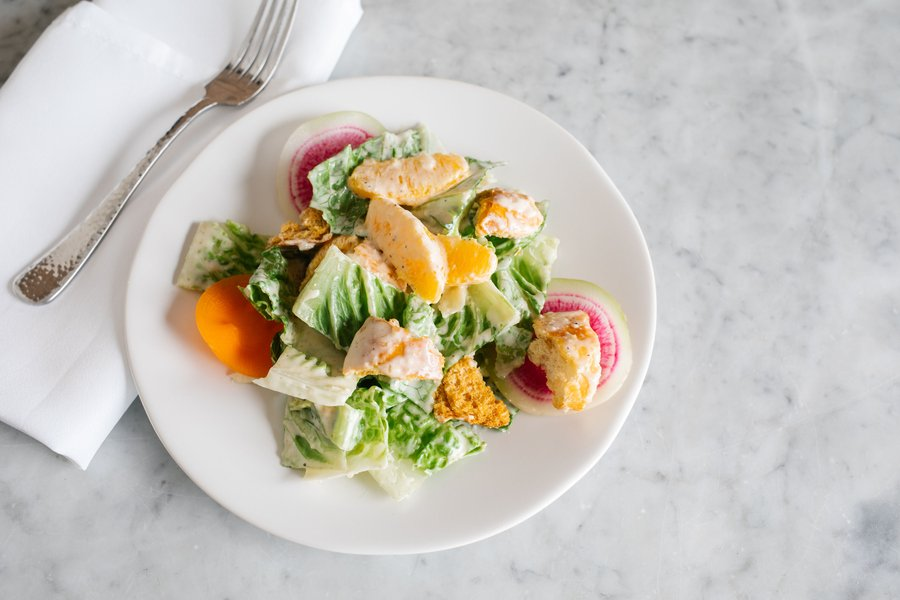
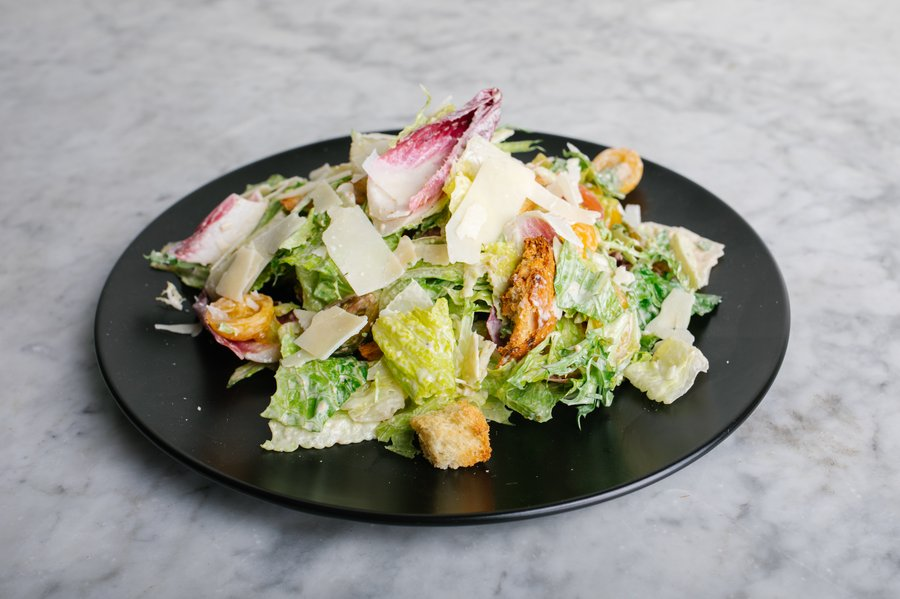
holiday pics

diff --git a/seo-to-csv-converter.html b/seo-to-csv-converter.html
@@ -503,7 +503,7 @@ const MENU_PHOTOS = [
   {slug:"okey-dokey-artichokey",name:"Okey Dokey Artichokey",aliases:["Okey Dokey Artichokey","Spinach Artichoke Dip","Artichoke Dip"]},
   {slug:"charcuterie",name:"Charcuterie",aliases:["Charcuterie","Charcuterie Board","Charcuterie Display","Grazing"]},
   {slug:"cheese-display",name:"Cheese Display",aliases:["Cheese Display","Cheese Board","Artisanal Cheese"]},
-  {slug:"black-bleu-meatball",name:"Black & Bleu Meatball",aliases:["Black & Bleu Meatball","Black and Bleu Meatball","Black Bleu Meatball"]},
+  {slug:"black-bleu-meatball",name:"Black & Bleu Meatball",aliases:["Black & Bleu Meatball","Black and Bleu Meatball","Black Bleu Meatball","Bacon Wrapped Meatballs","Bacon Wrapped Meatball","Bacon Meatball"]},
   {slug:"mini-lobster-roll",name:"Mini Lobster Roll",aliases:["Mini Lobster Roll","Lobster Roll"]},
   {slug:"mushroom-taleggio-arancini",name:"Mushroom & Taleggio Arancini",aliases:["Mushroom & Taleggio Arancini","Mushroom Arancini","Arancini"]},
   {slug:"seasonal-bruschetta-fall-winter",name:"Seasonal Bruschetta (Fall/Winter)",aliases:["Fall Winter Bruschetta"]},
@@ -523,7 +523,7 @@ const MENU_PHOTOS = [
   {slug:"frittata",name:"Frittata",aliases:["Frittata"]},
   {slug:"fresh-fruit-display",name:"Fresh Fruit Display",aliases:["Fresh Fruit Display","Fruit Display","Seasonal Fruit"]},
   {slug:"mixed-berry-parfait",name:"Mixed Berry Parfait",aliases:["Parfait","Yogurt Parfait","Mixed Berry Parfait","Parfaits"]},
-  {slug:"applewood-smoked-bacon",name:"Applewood Smoked Bacon",aliases:["Applewood Smoked Bacon","Bacon"]},
+  {slug:"applewood-smoked-bacon",name:"Applewood Smoked Bacon",aliases:["Applewood Smoked Bacon","Applewood Bacon","Smoked Bacon Strips"]},
   {slug:"grilled-ham",name:"Grilled Ham",aliases:["Grilled Ham"]},
   {slug:"avocado-toast",name:"Avocado Toast",aliases:["Avocado Toast","Avo Toast","Avocado Spread"]},
   {slug:"biscuits-jam",name:"Biscuits & Jam",aliases:["Biscuits & Jam","Biscuits and Jam","Biscuits"]},
@@ -537,15 +537,40 @@ const MENU_PHOTOS = [
     "Roasted Couscous","Couscous","Pearl Couscous","Israeli Couscous",
     "Fire Roasted Vegetables","Roasted Vegetables","Roasted Seasonal Vegetables","Char Grilled Vegetables","Grilled Vegetables","Seasonal Vegetables","Roasted Root Vegetables",
     "Cilantro Rice","Cilantro Lime Rice","Rice Pilaf","Wild Rice","Yellow Rice","Coconut Rice","Jasmine Rice","Basmati Rice","Saffron Rice",
-    "Basted Potatoes","Roasted Potatoes","Herb Roasted Potatoes","Smoky Fingerling Potatoes","Fingerling Potatoes","Fondant Potatoes","Smashed Potatoes","Potato Puree","Duchess Potatoes",
+    "Fondant Potatoes","Smashed Potatoes","Potato Puree","Duchess Potatoes",
     "Chive Mash","Garlic Mashed Potatoes","Yukon Mashed Potatoes",
     "Charred Broccoli","Roasted Broccoli","Broccolini","Charred Broccolini",
-    "Green Beans","Haricot Verts","French Green Beans","Grilled Asparagus","Roasted Asparagus",
-    "Brussels Sprouts","Charred Brussels Sprouts","Glazed Carrots","Honey Glazed Carrots","Roasted Carrots",
+    "Grilled Asparagus","Roasted Asparagus",
+    "Glazed Carrots","Honey Glazed Carrots","Roasted Carrots",
     "Farro Pilaf","Quinoa Pilaf","Grain Pilaf","Creamed Spinach","Grilled Corn","Street Corn","Elote"
   ]},
+  {slug:"charred-brussels",name:"Charred Brussels Sprouts",aliases:["Charred Brussels Sprouts","Roasted Brussels Sprouts","Brussels Sprouts","Brussels"]},
+  {slug:"roasted-baby-potatoes",name:"Roasted Baby Potatoes",aliases:["Petite Rainbow Potatoes","Rainbow Potatoes","Roasted Baby Potatoes","Basted Potatoes","Roasted Potatoes","Herb Roasted Potatoes","Smoky Fingerling Potatoes","Fingerling Potatoes"]},
+  {slug:"green-beans",name:"Green Beans",aliases:["Classic Green Beans","Green Beans","Haricot Verts","French Green Beans"]},
+  {slug:"country-dressing",name:"Country Bread Dressing",aliases:["Toasted Country Bread Dressing","Country Bread Dressing","Bread Dressing","Cornbread Dressing","Herb Dressing","Stuffing"]},
+  {slug:"roasted-yams",name:"Roasted Yams",aliases:["Roasted Yams","Candied Yams","Yams","Marshmallow Sweet Potato","Sweet Potato Casserole"]},
+  {slug:"turkey-breast",name:"Turkey Breast",aliases:["Turkey Breast","Bone-In Turkey Breast","Rosemary & Thyme Turkey","Roasted Turkey","Roast Turkey Breast","Sliced Turkey","Turkey"]},
+  {slug:"baked-ham",name:"Sliced Baked Ham",aliases:["Sliced Slow Baked Ham","Slow Baked Ham","Baked Ham","Holiday Ham","Glazed Ham","Hickory Smoked Ham","Sliced Ham"]},
+  {slug:"holiday-buffet",name:"Holiday Buffet",aliases:["Holiday Buffet","Holiday Dinner Buffet","Holiday Spread","Thanksgiving Buffet"]},
+  {slug:"raspberry-cheesecake",name:"Raspberry Swirl Cheesecake",aliases:["White Chocolate Raspberry Swirl Cheesecake","Raspberry Swirl Cheesecake","White Chocolate Raspberry Cheesecake","Raspberry Cheesecake"]},
+  {slug:"pumpkin-cheesecake",name:"Pumpkin Cheesecake",aliases:["Pumpkin Cheesecake Bites","Pumpkin Cheesecake Bite","Pumpkin Cheesecake"]},
+  {slug:"pecan-tart",name:"Chocolate Pecan Tart",aliases:["Chocolate Pecan Tart","Pecan Tart","Maple Pecan Tart"]},
+  {slug:"peppermint-cookies",name:"Peppermint Chocolate Cookies",aliases:["Peppermint and Chocolate Chunk Cookies","Peppermint Chocolate Cookies","Peppermint Crinkle Cookies","Peppermint Cookies","Chocolate Peppermint Cookies","Crinkle Cookies"]},
+  {slug:"apple-dessert-shooter",name:"Apple Spiced Shooter",aliases:["Apple Dessert Shooter","Apple Spiced Torte Bite","Apple Spiced Shooter","Apple Spice Shooter","Caramel Apple Shooter","Apple Torte Bite"]},
+  {slug:"mistletoe-margarita",name:"Mistletoe Margarita",aliases:["Mistletoe Margarita","Cranberry Margarita","Holiday Margarita","Winter Margarita","White Cranberry Margarita"]},
+  {slug:"pork-loin",name:"Pork Loin",aliases:["Pork Loin","Roasted Pork Loin","Herb Roasted Pork Loin","Sliced Pork Loin","Pork Tenderloin"]},
+  {slug:"apple-pie",name:"Apple Pie",aliases:["Classic Apple Pie","Apple Pie"]},
+  {slug:"pumpkin-chiffon-pie",name:"Pumpkin Chiffon Pie",aliases:["Pumpkin Chiffon Pie","Pumpkin Chiffon","Individual Sweet Pumpkin Pie","Sweet Pumpkin Pie","Pumpkin Pie"]},
+  {slug:"turtle-cheesecake",name:"Turtle Cheesecake",aliases:["Turtle Cheesecake","Caramel Pecan Cheesecake"]},
+  {slug:"pumpkin-pie-martini",name:"Pumpkin Pie Martini",aliases:["Pumpkin Pie Martini","Pumpkin Martini"]},
+  {slug:"apple-cider-bourbon",name:"Apple Cider Bourbon",aliases:["Apple Cider Bourbon","Apple Cider Cocktail","Cider Bourbon"]},
+  {slug:"caprese-flatbread",name:"Caprese Flatbread",aliases:["Caprese Flatbread","Caprese Flat Bread","Tomato Mozzarella Flatbread"]},
+  {slug:"ginger-cookie-sandwich",name:"Ginger Cookie Sandwich",aliases:["Ginger Cookie Sandwich","Gingersnap Cookies","Gingersnap Cookie","Ginger Cookies","Gingersnap"]},
+  {slug:"apple-guava-hand-pie",name:"Apple Guava Hand Pie",aliases:["Mini Apple Guava Hand Pie","Apple Guava Hand Pie","Guava Hand Pie","Hand Pie"]},
+  {slug:"maple-pecan-pie",name:"Maple Bourbon Pecan Pie",aliases:["Maple Bourbon Pecan Pie","Maple Pecan Pie","Bourbon Pecan Pie","Pecan Pie"]},
+  {slug:"ginger-ganache-brownie",name:"Ginger Swirl Ganache Brownie",aliases:["Ginger Swirl Ganache Brownie","Ginger Ganache Brownie","Ganache Brownie","Ginger Brownie"]},
   {slug:"chive-mashed-potatoes",name:"Chive Mashed Potatoes",aliases:["Chive Mashed","Mashed Potatoes","Whipped Potato"]},
-  {slug:"florida-inspired-caesar-salad",name:"Florida Inspired Caesar Salad",aliases:["Florida Inspired Caesar","Florida Caesar","Caesar Salad","Crisper Green"]},
+  {slug:"florida-inspired-caesar-salad",name:"Florida Inspired Caesar Salad",aliases:["Florida Inspired Caesar","Florida Caesar","Classic Caesar","Chicory Salad","Caesar Salad","Caesar","Crisper Green"]},
   {slug:"salad-buffet",name:"Salad Buffet",aliases:[],fallback:"salad"},
   {slug:"chilled-watermelon",name:"Chilled Watermelon",aliases:["Chilled Watermelon","Tomato Watermelon","Watermelon Salad"]},
   {slug:"winter-greens",name:"Winter Greens",aliases:["Winter Greens Salad","Winter Greens"]},
@@ -564,14 +589,14 @@ const MENU_PHOTOS = [
   {slug:"champagne-chicken",name:"Pan Roasted Frenched Chicken Champagne",aliases:["Pan Roasted Frenched Chicken Champagne","Frenched Chicken Champagne","Champagne Chicken"]},
   {slug:"rice-crispy-station",name:"Rice Crispy Bar Station",aliases:["Rice Crispy Bar Station","Rice Crispy Station","Rice Crispy Treat"]},
   {slug:"smores-station",name:"S'mores Station",aliases:["S'mores Station","Smores Station","S'mores","Smores"]},
-  {slug:"pan-roasted-atlantic-salmon",name:"Pan Roasted Atlantic Salmon",aliases:["Pan Roasted Atlantic Salmon","Pan Roasted Salmon","Atlantic Salmon"]},
+  {slug:"pan-roasted-atlantic-salmon",name:"Pan Roasted Atlantic Salmon",aliases:["Pan Roasted Atlantic Salmon","Pan Roasted Salmon","Roasted Salmon","Bake & Flake Salmon","Baked Salmon","Atlantic Salmon"]},
   {slug:"petite-lamb-chop",name:"Petite Lamb Chop",aliases:["Petite Lamb Chop","Lamb Chop"]},
   {slug:"penne-alla-vodka",name:"Penne Alla Vodka",aliases:["Penne Alla Vodka","Penne Vodka","Penne"]},
   {slug:"turkey-reuben",name:"Roast Turkey Reuben",aliases:["Roast Turkey Reuben","Turkey Reuben","Reuben"]},
-  {slug:"seared-scallops",name:"Seared Jumbo Scallops",aliases:["Seared Jumbo Scallops","Jumbo Scallops","Scallop"]},
-  {slug:"bacon-scallop",name:"Bacon Scallop",aliases:["Bacon Wrapped Scallop","Bacon Braised Scallop","Bacon Jam Scallop","Maple Bacon Scallop","Scallop and Bacon","Scallop with Bacon","Bacon Scallop"]},
+  {slug:"seared-scallops",name:"Seared Jumbo Scallops",aliases:["Seared Jumbo Scallops","Jumbo Scallops","Seared Scallops","Seared Scallop"]},
+  {slug:"bacon-scallop",name:"Bacon Scallop",aliases:["Bacon Wrapped Scallop","Bacon Braised Scallop","Bacon Jam Scallop","Maple Bacon Scallop","Scallops Bacon","Scallop and Bacon","Scallop with Bacon","Bacon Scallop"]},
   {slug:"dessert-shooter",name:"Black Forest Shooter",aliases:["Black Forest Shooter","Black Forest Cake Shooter","Chocolate Cherry Shooter","Black Forest","Dessert Shooter","Dessert Shooters"]},
-  {slug:"petite-potato",name:"Petite Twice-Baked Potato",aliases:["Petite Twice Baked Potato","Twice Baked Potato","Petite Potato","Stuffed Petite Potato","Loaded Petite Potato","Duchess Potato","Mini Baked Potato"]},
+  {slug:"petite-potato",name:"Petite Twice-Baked Potato",aliases:["Petite Twice Baked Potato","Mini Twice Baked Potatoes","Twice Baked Potatoes","Twice Baked Potato","Petite Potato","Stuffed Petite Potato","Loaded Petite Potato","Duchess Potato","Mini Baked Potato"]},
   {slug:"bagel-bar",name:"Bagel Bar",aliases:["Bagel Bar","Bagel Display","Bagel Station","Assorted Bagels","Bagels & Spreads","Bagels and Spreads"]},
   {slug:"crab-cake-benedict",name:"Crab Cake Benedict",aliases:["Crab Cake Benedict","Crab Cake Eggs Benedict","Crab Benedict"]},
   {slug:"flatbread",name:"Sun-Dried Tomato Flatbread",aliases:["Sun-Dried Tomato Flatbread","Sundried Tomato Flatbread","Tomato Flatbread","Margherita Flatbread","Artisan Flatbread","Flatbread"]},
@@ -593,8 +618,8 @@ const MENU_PHOTOS = [
   {slug:"vintage-revival",name:"Vintage Revival",aliases:["Vintage Revival"]},
   {slug:"mahi-tostada",name:"Mahi Tostada",aliases:["Mahi Tostada","Mahi"]},
   {slug:"potato-crusted-grouper",name:"Potato Crusted Grouper",aliases:["Potato Crusted Grouper","Baked & Flaked Grouper","Grouper"]},
-  {slug:"roasted-lamb",name:"Roasted Lamb",aliases:["Roasted Lamb","Lamb Rack","Rack of Lamb"]},
-  {slug:"shrimp-risotto",name:"Shrimp Risotto",aliases:["Shrimp Risotto"]},
+  {slug:"roasted-lamb",name:"Roasted Lamb",aliases:["Roasted Lamb","Lamb Roast","Lamb Rack","Rack of Lamb"]},
+  {slug:"shrimp-risotto",name:"Shrimp Risotto",aliases:["Shrimp Risotto","Shrimp Butternut Squash Risotto","Butternut Squash Risotto"]},
   {slug:"shaved-bresaola-toast",name:"Shaved Bresaola Toast",aliases:["Shaved Bresaola Toast","Bresaola Toast","Bresaola"]},
   {slug:"salmon-nicoise",name:"Salmon Nicoise Salad",aliases:["Salmon Nicoise Salad","Salmon Nicoise","Nicoise"]},
   {slug:"quinoa-walnut-porridge",name:"Quinoa Walnut Porridge",aliases:["Quinoa Walnut Porridge","Overnight Oats","Porridge"]},
@@ -603,7 +628,7 @@ const MENU_PHOTOS = [
   {slug:"pie-in-a-jar-smores",name:"Pie in a Jar S'mores",aliases:["Pie in a Jar Smores","S'mores Pie"]},
   {slug:"signature-soup-collection",name:"Signature Soup Collection",aliases:["Signature Soup Collection","Signature Creamy Basil","Creamy Basil Soup","Soup Collection","Tomato Basil Soup"]},
   {slug:"crab-cakes",name:"Crab Cakes",aliases:["Crab Cakes","Crab Cake","Jumbo Lump Crab Cake"]},
-  {slug:"beef-wellington",name:"Beef Wellington",aliases:["Beef Wellington","Wellington"]},
+  {slug:"beef-wellington",name:"Beef Wellington",aliases:["Beef Wellington","Beef Tenderloin Wellington"]},
   {slug:"cauliflower-steak",name:"Cauliflower Steak",aliases:["Cauliflower Steak","Roasted Cauliflower Steak"]},
   {slug:"cobb-salad",name:"Cobb Salad",aliases:["Cobb Salad"]},
   {slug:"roasted-squash-salad",name:"Roasted Squash Salad",aliases:["Roasted Squash Salad","Squash Salad","Autumn Squash Salad","Winter Squash Salad","Harvest Salad","Butternut Squash Salad"]},
